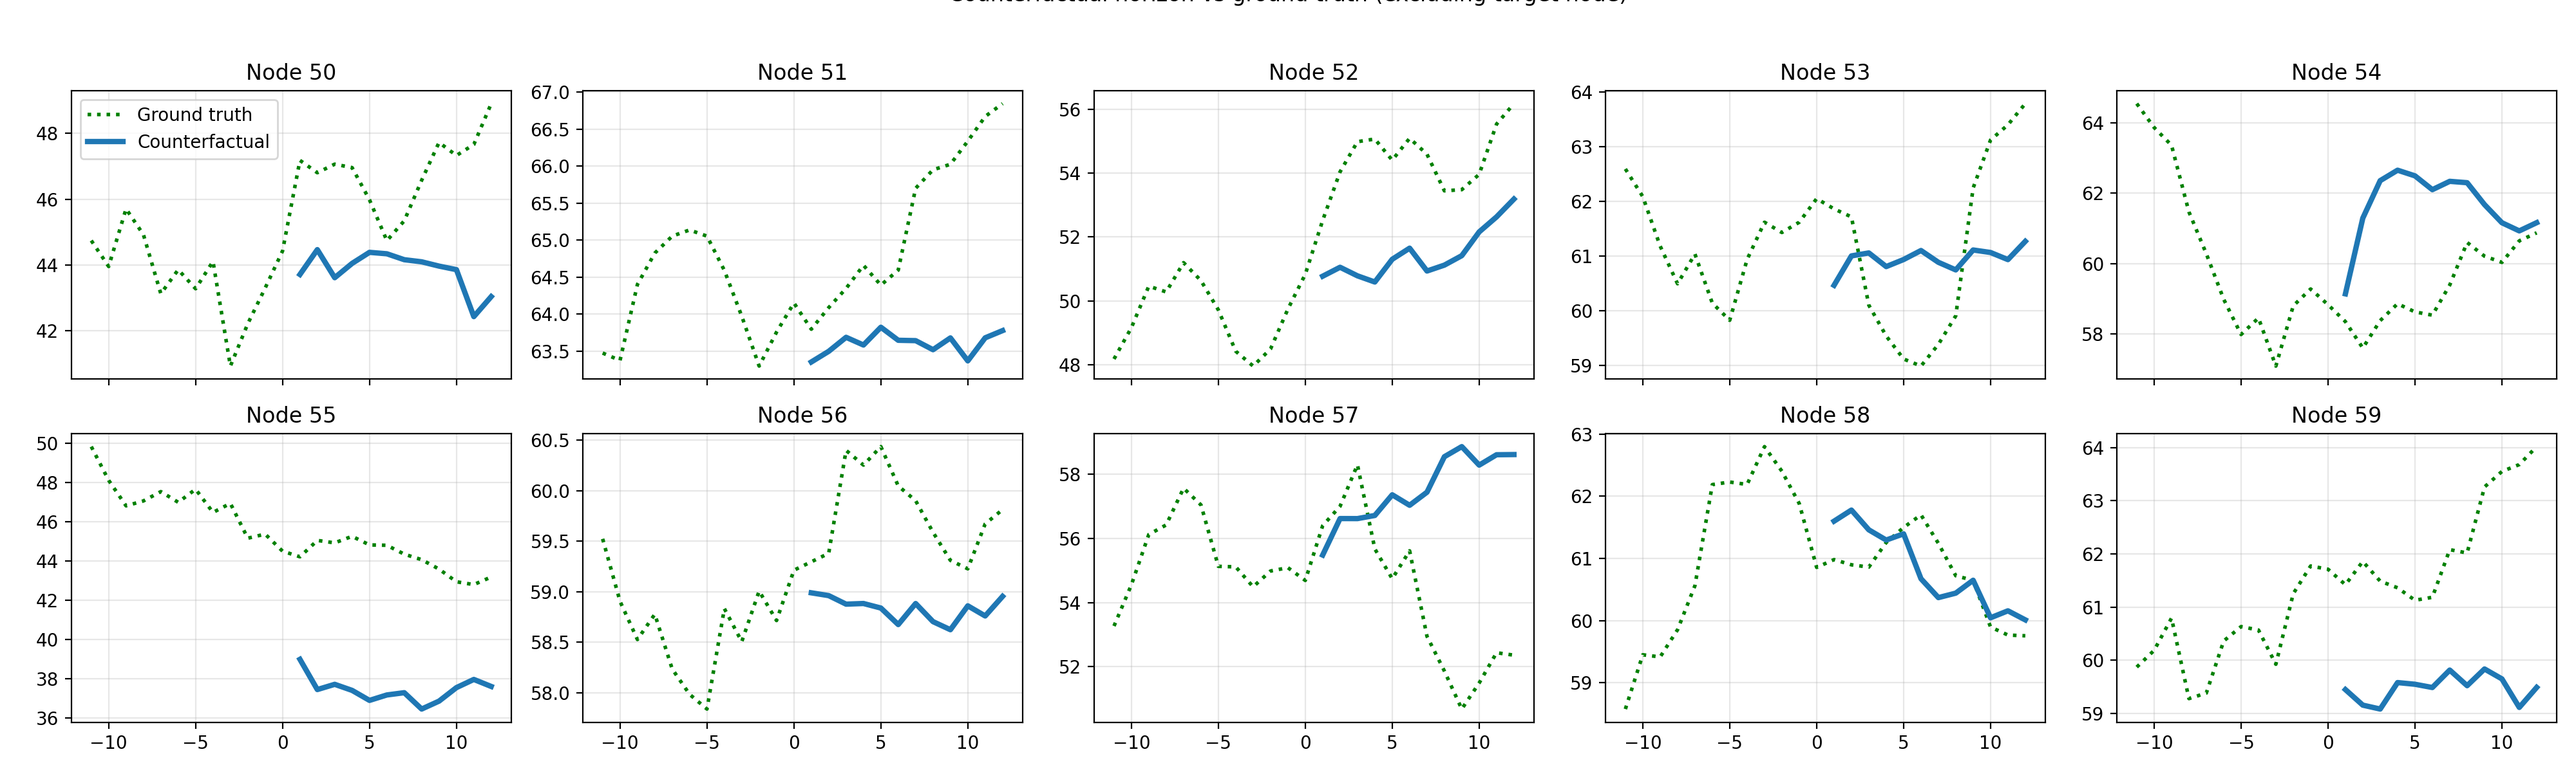
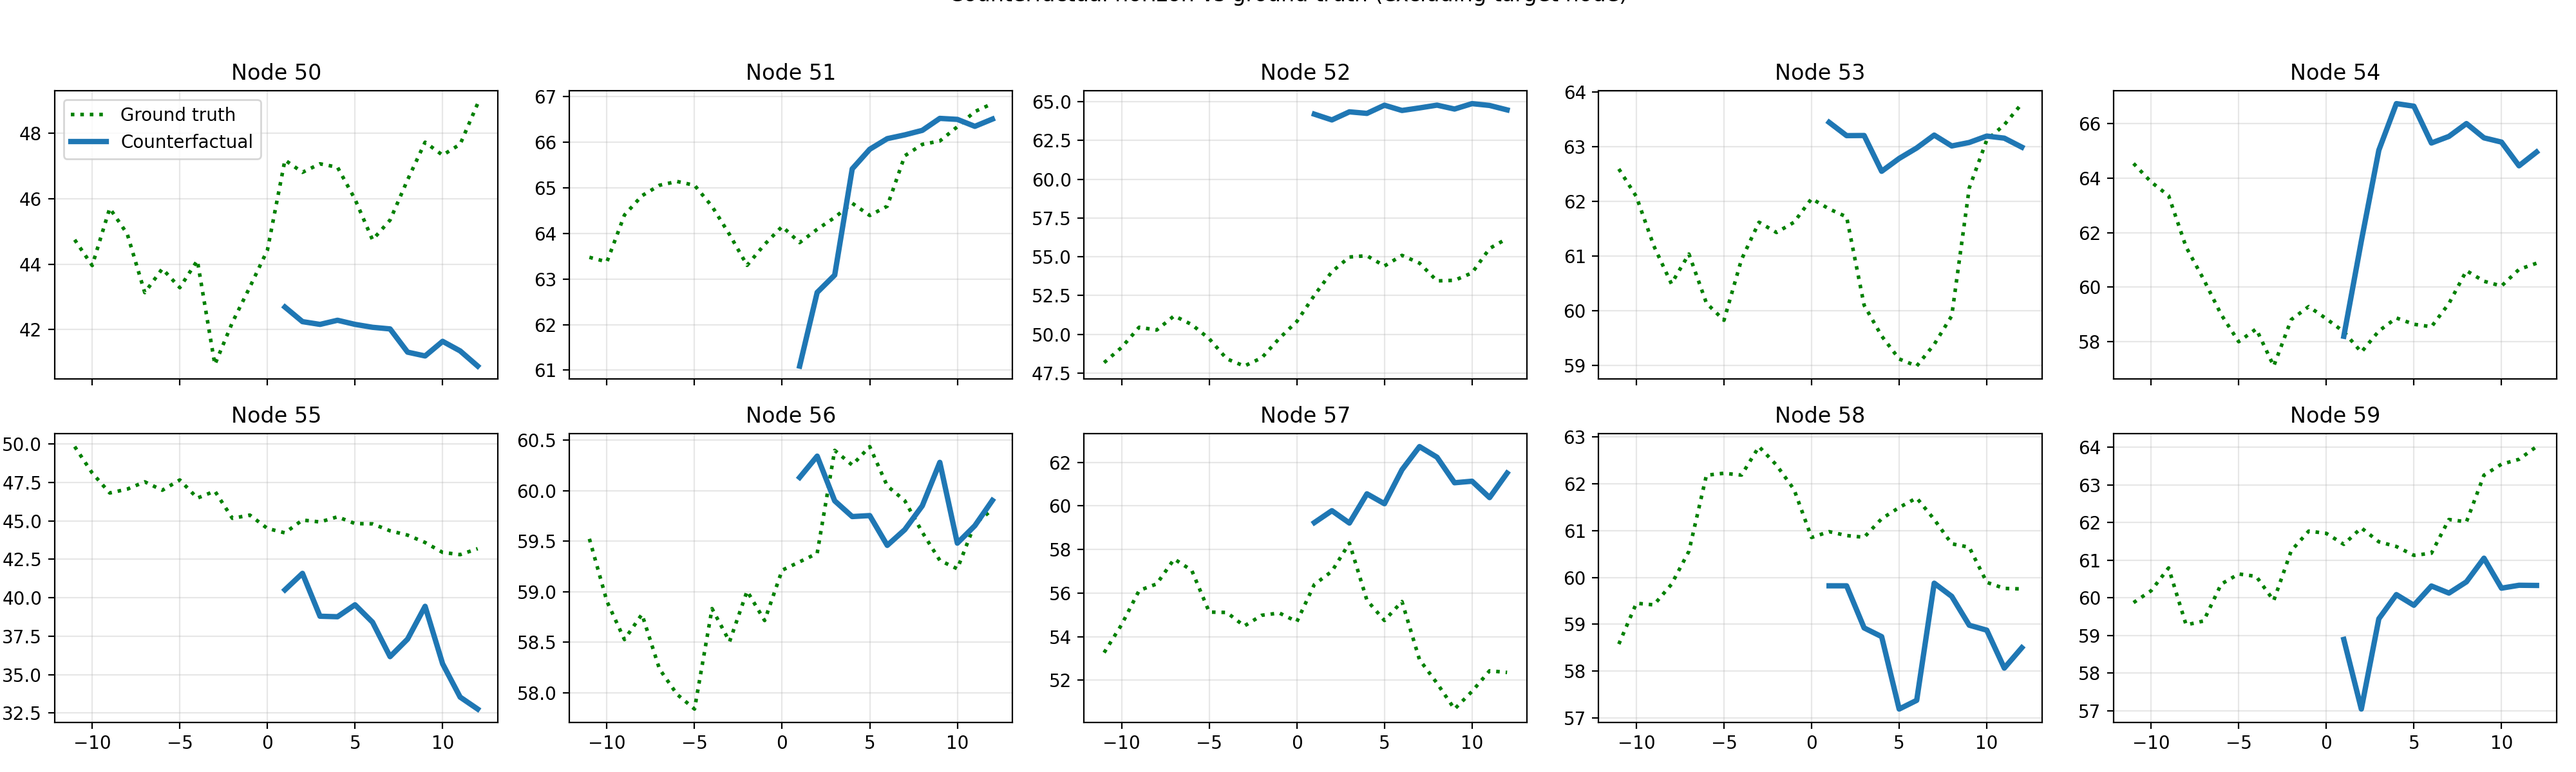
Add neighbor-only input functionality for enhanced forecasting

diff --git a/train.py b/train.py
@@ -65,6 +65,11 @@ def parse_args() -> argparse.Namespace:
         default=None,
         help="Percent of input weight assigned to the last lag step; remaining weight is spread across earlier steps.",
     )
+    parser.add_argument(
+        "--neighbor_only_inputs",
+        action="store_true",
+        help="Use only neighbor history by pre-aggregating inputs with an adjacency matrix that excludes self loops.",
+    )
     parser.add_argument("--train_ratio", type=float, default=0.7)
     parser.add_argument("--val_ratio", type=float, default=0.1)
     parser.add_argument("--output", type=str, default=None, help="Optional path to save trained weights.")
@@ -294,12 +299,16 @@ def forward_pass(
     x: torch.Tensor,
     model_type: str,
     lag_weights: Optional[torch.Tensor] = None,
+    adjacency: Optional[torch.Tensor] = None,
+    neighbor_only_inputs: bool = False,
 ) -> torch.Tensor:
     if lag_weights is not None:
         if lag_weights.numel() != x.size(-1):
             raise ValueError("lag_weights length does not match the input lag dimension.")
         weights = lag_weights.to(device=x.device, dtype=x.dtype).view(1, 1, 1, -1)
         x = x * weights
+    if neighbor_only_inputs:
+        x = _neighbor_only_inputs(x, adjacency)
     if model_type == "graphwavenet":
         pad_len = max(0, getattr(model, "receptive_field", 1) - x.size(-1))
         padded_x = nn.functional.pad(x, (pad_len, 0, 0, 0))
@@ -320,6 +329,33 @@ def forward_pass(
     return output
 
 
+def _neighbor_only_inputs(x: torch.Tensor, adjacency: Optional[torch.Tensor]) -> torch.Tensor:
+    if adjacency is None:
+        raise ValueError("adjacency must be provided when neighbor_only_inputs is enabled.")
+    adj = adjacency.to(device=x.device, dtype=x.dtype)
+    if adj.dim() == 3 and adj.size(0) == 1:
+        adj = adj[0]
+    if adj.dim() == 2:
+        adj = adj.clone()
+        adj.fill_diagonal_(0)
+        denom = adj.sum(dim=-1, keepdim=True).clamp_min(1e-8)
+        adj = adj / denom
+        x_perm = x.permute(0, 1, 3, 2)
+        x_agg = torch.matmul(x_perm, adj.T)
+        return x_agg.permute(0, 1, 3, 2)
+    if adj.dim() == 3:
+        adj = adj.clone()
+        adj.diagonal(dim1=-2, dim2=-1).zero_()
+        denom = adj.sum(dim=-1, keepdim=True).clamp_min(1e-8)
+        adj = adj / denom
+        x_perm = x.permute(0, 1, 3, 2)
+        x_flat = x_perm.reshape(x_perm.size(0), -1, x_perm.size(-1))
+        x_agg = torch.bmm(x_flat, adj.transpose(1, 2))
+        x_agg = x_agg.reshape(x_perm.shape)
+        return x_agg.permute(0, 1, 3, 2)
+    raise ValueError("adjacency must have shape (N, N) or (B, N, N)")
+
+
 def compute_metrics(pred: torch.Tensor, target: torch.Tensor) -> Tuple[float, float]:
     mae = torch.mean(torch.abs(pred - target)).item()
     rmse = torch.sqrt(torch.mean((pred - target) ** 2)).item()
@@ -337,6 +373,8 @@ def run_epoch(
     grad_clip: float | None = None,
     distributed: bool = False,
     lag_weights: Optional[torch.Tensor] = None,
+    adjacency: Optional[torch.Tensor] = None,
+    neighbor_only_inputs: bool = False,
 ) -> Dict[str, float]:
     is_train = optimizer is not None
     model.train() if is_train else model.eval()
@@ -352,7 +390,14 @@ def run_epoch(
         if is_train:
             optimizer.zero_grad()
         with torch.set_grad_enabled(is_train):
-            prediction = forward_pass(model, x, model_type, lag_weights=lag_weights)
+            prediction = forward_pass(
+                model,
+                x,
+                model_type,
+                lag_weights=lag_weights,
+                adjacency=adjacency,
+                neighbor_only_inputs=neighbor_only_inputs,
+            )
             if loss_focus == "last":
                 prediction = prediction[..., -1:]
                 target = target[..., -1:]
@@ -521,6 +566,7 @@ def test_pipeline(args: argparse.Namespace) -> None:
         checkpoint_args.get("lag_last_weight_percent", args.lag_last_weight_percent) if checkpoint_args else args.lag_last_weight_percent
     )
     lag_weights = build_lag_weights(lag, lag_last_weight_percent)
+    neighbor_only_inputs = checkpoint_args.get("neighbor_only_inputs", False) if checkpoint_args else False
     test_stats = run_epoch(
         model,
         loaders["test"],
@@ -529,6 +575,8 @@ def test_pipeline(args: argparse.Namespace) -> None:
         criterion,
         loss_focus=loss_focus,
         lag_weights=lag_weights,
+        adjacency=bundle.adjacency,
+        neighbor_only_inputs=neighbor_only_inputs,
     )
     pbar.update(1)
     pbar.close()
@@ -602,6 +650,8 @@ def train_worker(rank: int, args: argparse.Namespace, gpu_ids: Optional[List[int
             grad_clip=args.grad_clip,
             distributed=distributed,
             lag_weights=lag_weights,
+            adjacency=bundle.adjacency,
+            neighbor_only_inputs=args.neighbor_only_inputs,
         )
         val_stats = run_epoch(
             model,
@@ -612,6 +662,8 @@ def train_worker(rank: int, args: argparse.Namespace, gpu_ids: Optional[List[int
             loss_focus=args.loss_focus,
             distributed=distributed,
             lag_weights=lag_weights,
+            adjacency=bundle.adjacency,
+            neighbor_only_inputs=args.neighbor_only_inputs,
         )
 
         if rank == 0:

diff --git a/main.py b/main.py
@@ -80,6 +80,11 @@ def add_forecaster_subcommand(subparsers: argparse._SubParsersAction[argparse.Ar
         default=None,
         help="Percent of input weight assigned to the last lag step; remaining weight is spread across earlier steps.",
     )
+    parser.add_argument(
+        "--neighbor_only_inputs",
+        action="store_true",
+        help="Use only neighbor history by pre-aggregating inputs with an adjacency matrix that excludes self loops.",
+    )
     parser.add_argument("--train_ratio", type=float, default=0.7)
     parser.add_argument("--val_ratio", type=float, default=0.1)
     parser.add_argument("--output", type=str, default=None)
@@ -174,7 +179,7 @@ def add_counterfactual_subcommand(subparsers: argparse._SubParsersAction[argpars
     parser.add_argument("--sample_index", type=int, default=0)
     parser.add_argument("--mask_path", type=str, default=None, help="Optional path to a numpy mask of shape (T, N, F).")
     parser.add_argument("--target_path", type=str, default=None, help="Optional path to a numpy target (H, N).")
-    parser.add_argument("--samples", type=int, default=10)
+    parser.add_argument("--samples", type=int, default=100)
     parser.add_argument("--max_steps", type=int, default=None)
     parser.add_argument(
         "--iterative_guidance",
@@ -1458,6 +1463,7 @@ def load_forecaster_from_checkpoint(path: Path, device: torch.device, data_root_
     val_ratio = checkpoint_args.get("val_ratio", 0.1)
     target_channel = checkpoint_args.get("target_channel", 0)
     lag_last_weight_percent = checkpoint_args.get("lag_last_weight_percent", None)
+    neighbor_only_inputs = checkpoint_args.get("neighbor_only_inputs", False)
     data_root_value = data_root_override or checkpoint_args.get("data_root")
     data_root = Path(data_root_value) if data_root_value else None
 
@@ -1485,6 +1491,7 @@ def load_forecaster_from_checkpoint(path: Path, device: torch.device, data_root_
         "model": model_type,
         "lag_last_weight_percent": lag_last_weight_percent,
         "lag_weights": lag_weights,
+        "neighbor_only_inputs": neighbor_only_inputs,
     }
     return model, bundle, metadata
 
@@ -1528,6 +1535,8 @@ def run_counterfactual_command(args: argparse.Namespace) -> None:
                 forecaster_input,
                 model_type,
                 lag_weights=dataset_meta.get("lag_weights"),
+                adjacency=bundle.adjacency,
+                neighbor_only_inputs=dataset_meta.get("neighbor_only_inputs", False),
             )
             .squeeze(0)
             .detach()
@@ -1672,6 +1681,8 @@ def run_counterfactual_command(args: argparse.Namespace) -> None:
                     step_input,
                     short_model_type,
                     lag_weights=short_meta.get("lag_weights"),
+                    adjacency=short_bundle.adjacency,
+                    neighbor_only_inputs=short_meta.get("neighbor_only_inputs", False),
                 )
                 if step_pred.dim() == 2:
                     step_pred = step_pred.unsqueeze(-1)
@@ -1702,6 +1713,7 @@ def run_counterfactual_command(args: argparse.Namespace) -> None:
                 baseline=baseline_step,
                 anchor_weights=anchor_step,
                 node_weights=node_weights,
+                neighbor_only_inputs=short_meta.get("neighbor_only_inputs", False),
                 model_type=short_model_type,
                 lag_weights=short_meta.get("lag_weights"),
             )
@@ -1725,6 +1737,8 @@ def run_counterfactual_command(args: argparse.Namespace) -> None:
                     cf_input,
                     short_model_type,
                     lag_weights=short_meta.get("lag_weights"),
+                    adjacency=short_bundle.adjacency,
+                    neighbor_only_inputs=short_meta.get("neighbor_only_inputs", False),
                 )
                 if cf_preds.dim() == 2:
                     cf_preds = cf_preds.unsqueeze(-1)
@@ -1901,6 +1915,7 @@ def run_counterfactual_command(args: argparse.Namespace) -> None:
         baseline=baseline_forecast,
         anchor_weights=anchor_weights,
         node_weights=node_weights,
+        neighbor_only_inputs=dataset_meta.get("neighbor_only_inputs", False),
         model_type=model_type,
         lag_weights=dataset_meta.get("lag_weights"),
     )
@@ -1924,6 +1939,8 @@ def run_counterfactual_command(args: argparse.Namespace) -> None:
             cf_input,
             model_type,
             lag_weights=dataset_meta.get("lag_weights"),
+            adjacency=bundle.adjacency,
+            neighbor_only_inputs=dataset_meta.get("neighbor_only_inputs", False),
         )
         cf_preds = cf_preds[:, :, :cf_horizon]
         node_w = node_weights.to(device) if node_weights is not None else torch.ones(bundle.num_nodes, device=device)

diff --git a/counterfactual/guidance.py b/counterfactual/guidance.py
@@ -76,6 +76,7 @@ class ForecastGuidance:
         baseline: Optional[torch.Tensor] = None,
         anchor_weights: Optional[torch.Tensor] = None,
         node_weights: Optional[torch.Tensor] = None,
+        neighbor_only_inputs: bool = False,
         model_type: str = "stgcn",
         lag_weights: Optional[torch.Tensor] = None,
     ) -> None:
@@ -89,6 +90,7 @@ class ForecastGuidance:
         self.lower_bounds = lower_bounds
         self.upper_bounds = upper_bounds
         self.baseline = baseline.to(device).float().unsqueeze(0) if baseline is not None else None
+        self.neighbor_only_inputs = neighbor_only_inputs
         self.model_type = model_type
         self.lag_weights = lag_weights
         if anchor_weights is not None:
@@ -132,6 +134,8 @@ class ForecastGuidance:
                 forecaster_input,
                 self.model_type,
                 lag_weights=self.lag_weights,
+                adjacency=self.adjacency,
+                neighbor_only_inputs=self.neighbor_only_inputs,
             )
             base_error = (prediction - self.target).pow(2)
             if self.node_weights is not None:
